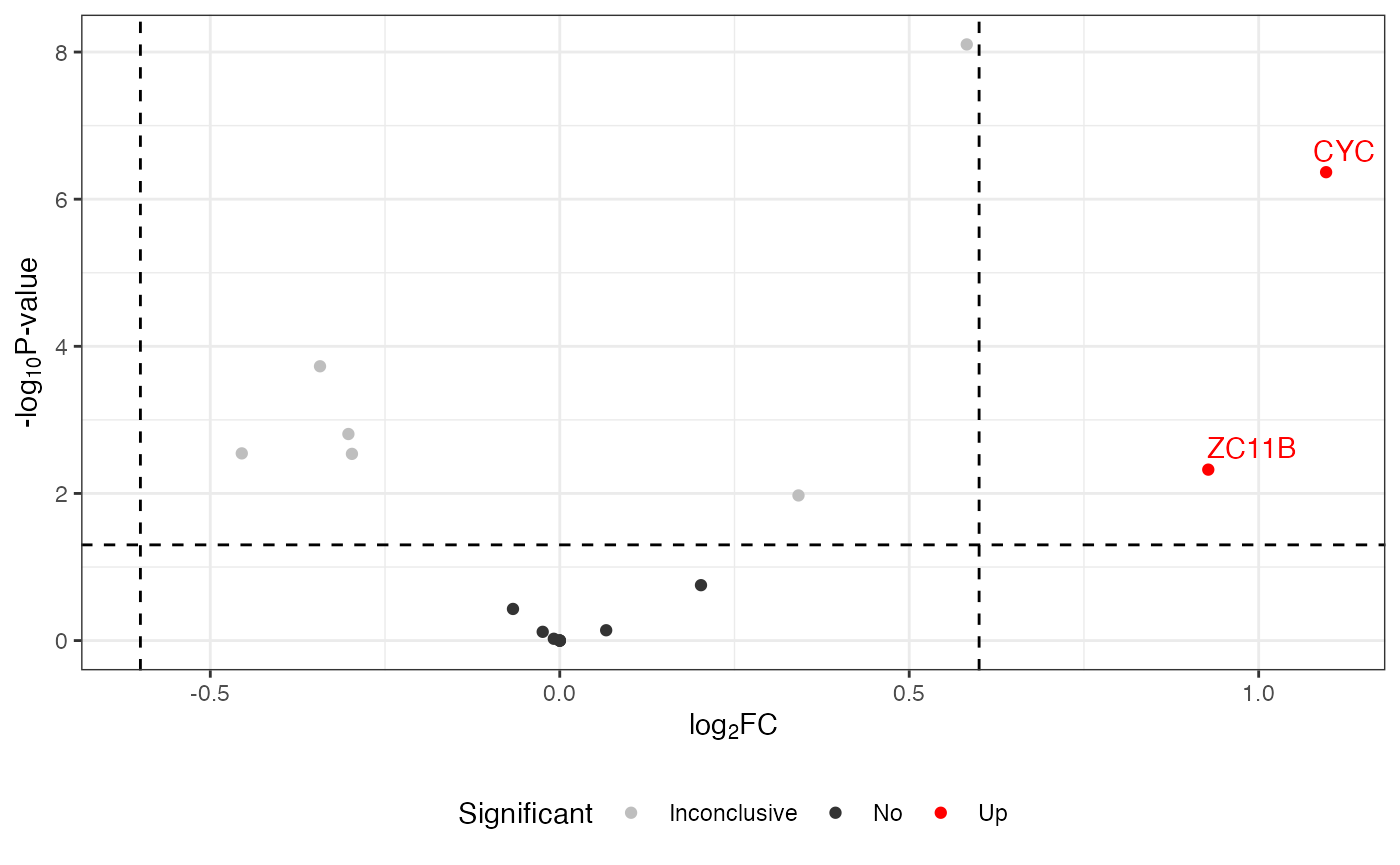
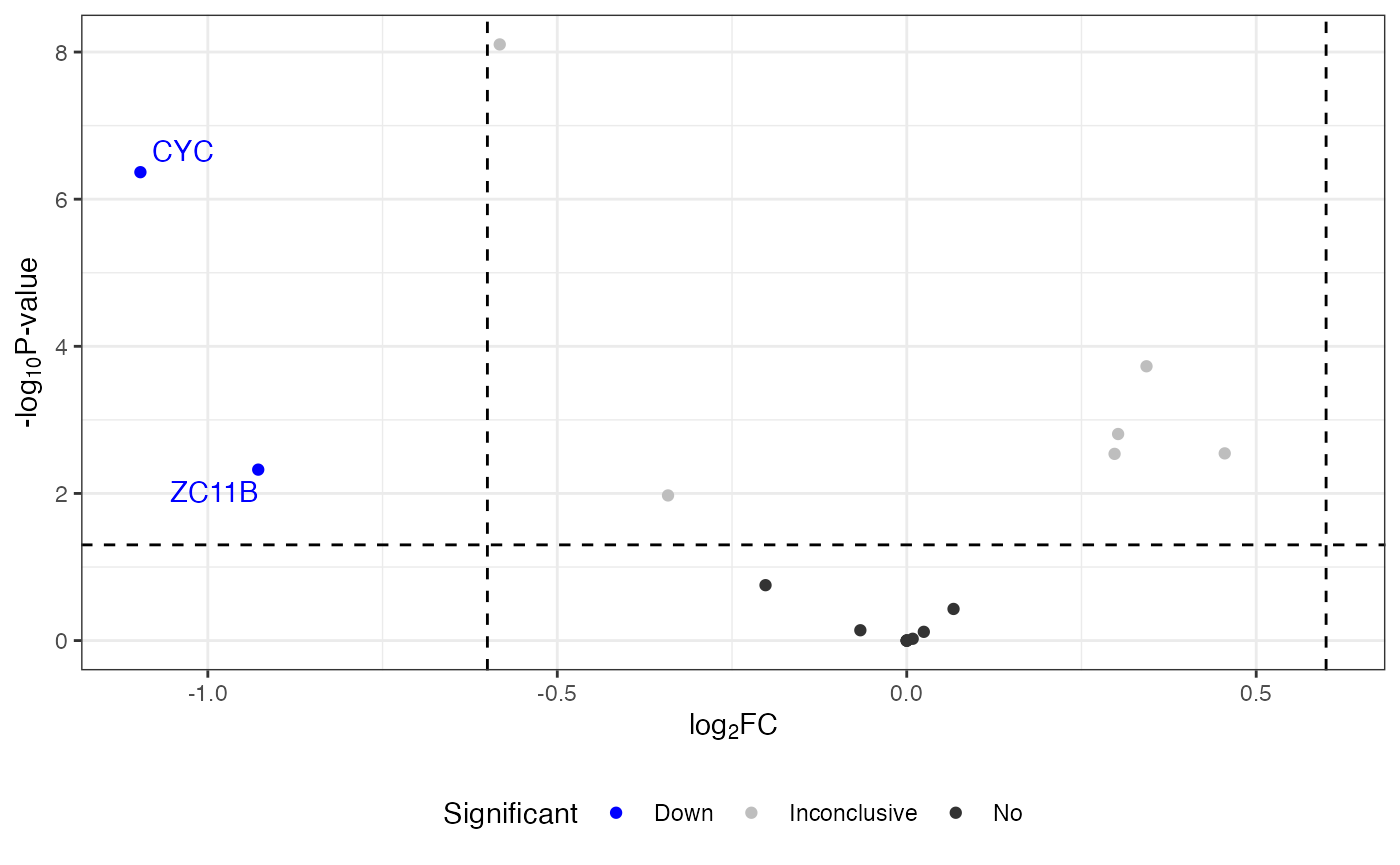
analyze: fix the factor level consistent with the input

diff --git a/docs/articles/usage_template.html b/docs/articles/usage_template.html
@@ -79,7 +79,7 @@ Xiao<span class="math inline">\(^1\)</span>, Charles Watt<span class="math inlin
 Facility, UConn<br><span class="math inline">\(^3\)</span>Statistical Consulting Services,
 UConn</p>
             
-            <h4 data-toc-skip class="date">2024-03-07</h4>
+            <h4 data-toc-skip class="date">2024-03-11</h4>
       
       <small class="dont-index">Source: <a href="https://github.com/uconn-scs/msDiaLogue/blob/HEAD/vignettes/usage_template.Rmd" class="external-link"><code>vignettes/usage_template.Rmd</code></a></small>
       <div class="d-none name"><code>usage_template.Rmd</code></div>
@@ -3420,7 +3420,7 @@ occurrence.</p>
 <col width="5%">
 <col width="5%">
 <col width="5%">
-<col width="4%">
+<col width="5%">
 <col width="5%">
 <col width="5%">
 <col width="5%">
@@ -3456,23 +3456,23 @@ occurrence.</p>
 <tbody>
 <tr class="odd">
 <td align="left">Difference</td>
-<td align="right">0.3415628</td>
+<td align="right">-0.3415628</td>
 <td align="right">0</td>
-<td align="right">0.2020687</td>
-<td align="right">-0.3430288</td>
+<td align="right">-0.2020687</td>
+<td align="right">0.3430288</td>
 <td align="right">0</td>
-<td align="right">1.0964727</td>
-<td align="right">-0.0084981</td>
+<td align="right">-1.0964727</td>
+<td align="right">0.0084981</td>
 <td align="right">0</td>
-<td align="right">-0.2973479</td>
-<td align="right">-0.4549624</td>
-<td align="right">0.0664000</td>
-<td align="right">-0.3024055</td>
+<td align="right">0.2973479</td>
+<td align="right">0.4549624</td>
+<td align="right">-0.0664000</td>
+<td align="right">0.3024055</td>
 <td align="right">0</td>
-<td align="right">-0.0669305</td>
-<td align="right">-0.0243987</td>
-<td align="right">0.5823461</td>
-<td align="right">0.9278932</td>
+<td align="right">0.0669305</td>
+<td align="right">0.0243987</td>
+<td align="right">-0.5823461</td>
+<td align="right">-0.9278932</td>
 </tr>
 <tr class="even">
 <td align="left">P-value</td>
